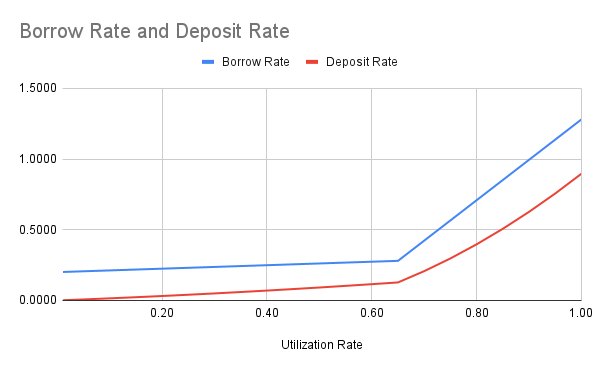
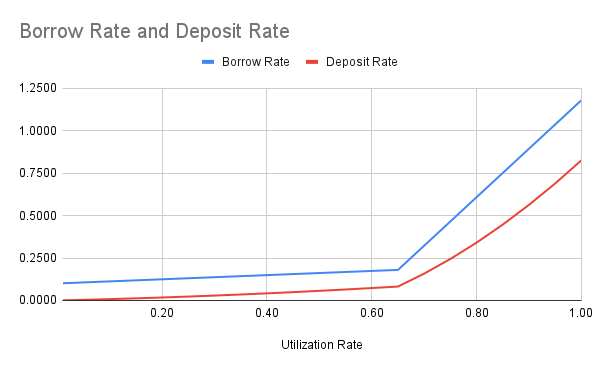
GitBook: [#505] No subject

diff --git a/lending-protocol/interest-model.md b/lending-protocol/interest-model.md
@@ -19,6 +19,30 @@ You can read the technical details about the interest rate model [here](../risk/
 
 <figure><img src="../.gitbook/assets/Borrow Rate and Deposit Rate-45-0907.png" alt=""><figcaption></figcaption></figure>
 
+| Utilization Rate | Borrow Rate | Deposit Rate |
+| ---------------- | ----------- | ------------ |
+| 0.01             | 0.2036      | 0.0014       |
+| 0.05             | 0.2178      | 0.0076       |
+| 0.10             | 0.2356      | 0.0165       |
+| 0.15             | 0.2533      | 0.0266       |
+| 0.20             | 0.2711      | 0.0380       |
+| 0.25             | 0.2889      | 0.0506       |
+| 0.30             | 0.3067      | 0.0644       |
+| 0.35             | 0.3244      | 0.0795       |
+| 0.40             | 0.3422      | 0.0958       |
+| 0.45             | 0.3600      | 0.1134       |
+| 0.50             | 0.5418      | 0.1896       |
+| 0.55             | 0.7236      | 0.2786       |
+| 0.60             | 0.9055      | 0.3803       |
+| 0.65             | 1.0873      | 0.4947       |
+| 0.70             | 1.2691      | 0.6219       |
+| 0.75             | 1.4509      | 0.7617       |
+| 0.80             | 1.6327      | 0.9143       |
+| 0.85             | 1.8145      | 1.0796       |
+| 0.90             | 1.9964      | 1.2577       |
+| 0.95             | 2.1782      | 1.4485       |
+| 1.00             | 2.3600      | 1.6520       |
+
 #### 2022-08-23 Liquidity Crisis
 
 | UtilizationRate | BaseRate | Slope1 | Slope2 |
@@ -27,10 +51,58 @@ You can read the technical details about the interest rate model [here](../risk/
 
 <figure><img src="../.gitbook/assets/Borrow Rate and Deposit Rate-80-0907.png" alt=""><figcaption></figcaption></figure>
 
+| Utilization Rate | Borrow Rate | Deposit Rate |
+| ---------------- | ----------- | ------------ |
+| 0.01             | 0.2010      | 0.0014       |
+| 0.05             | 0.2050      | 0.0072       |
+| 0.10             | 0.2100      | 0.0147       |
+| 0.15             | 0.2150      | 0.0226       |
+| 0.20             | 0.2200      | 0.0308       |
+| 0.25             | 0.2250      | 0.0394       |
+| 0.30             | 0.2300      | 0.0483       |
+| 0.35             | 0.2350      | 0.0576       |
+| 0.40             | 0.2400      | 0.0672       |
+| 0.45             | 0.2450      | 0.0772       |
+| 0.50             | 0.2500      | 0.0875       |
+| 0.55             | 0.2550      | 0.0982       |
+| 0.60             | 0.2600      | 0.1092       |
+| 0.65             | 0.2650      | 0.1206       |
+| 0.70             | 0.2700      | 0.1323       |
+| 0.75             | 0.2750      | 0.1444       |
+| 0.80             | 0.2800      | 0.1568       |
+| 0.85             | 0.5300      | 0.3154       |
+| 0.90             | 0.7800      | 0.4914       |
+| 0.95             | 1.0300      | 0.6850       |
+| 1.00             | 1.2800      | 0.8960       |
+
 #### 2022-03-21 The Begining
 
 | UtilizationRate | BaseRate | Slope1 | Slope2 |
 | --------------- | -------- | ------ | ------ |
-| 65%             | 20%      | 8%     | 100%   |
+| 65%             | 10%      | 8%     | 100%   |
 
 <figure><img src="../.gitbook/assets/Borrow Rate and Deposit Rate-65-0907.png" alt=""><figcaption></figcaption></figure>
+
+| Utilization Rate | Borrow Rate | Deposit Rate |
+| ---------------- | ----------- | ------------ |
+| 0.01             | 0.1012      | 0.0007       |
+| 0.05             | 0.1062      | 0.0037       |
+| 0.10             | 0.1123      | 0.0079       |
+| 0.15             | 0.1185      | 0.0124       |
+| 0.20             | 0.1246      | 0.0174       |
+| 0.25             | 0.1308      | 0.0229       |
+| 0.30             | 0.1369      | 0.0287       |
+| 0.35             | 0.1431      | 0.0351       |
+| 0.40             | 0.1492      | 0.0418       |
+| 0.45             | 0.1554      | 0.0490       |
+| 0.50             | 0.1615      | 0.0565       |
+| 0.55             | 0.1677      | 0.0646       |
+| 0.60             | 0.1738      | 0.0730       |
+| 0.65             | 0.1800      | 0.0819       |
+| 0.70             | 0.3229      | 0.1582       |
+| 0.75             | 0.4657      | 0.2445       |
+| 0.80             | 0.6086      | 0.3408       |
+| 0.85             | 0.7514      | 0.4471       |
+| 0.90             | 0.8943      | 0.5634       |
+| 0.95             | 1.0371      | 0.6897       |
+| 1.00             | 1.1800      | 0.8260       |
